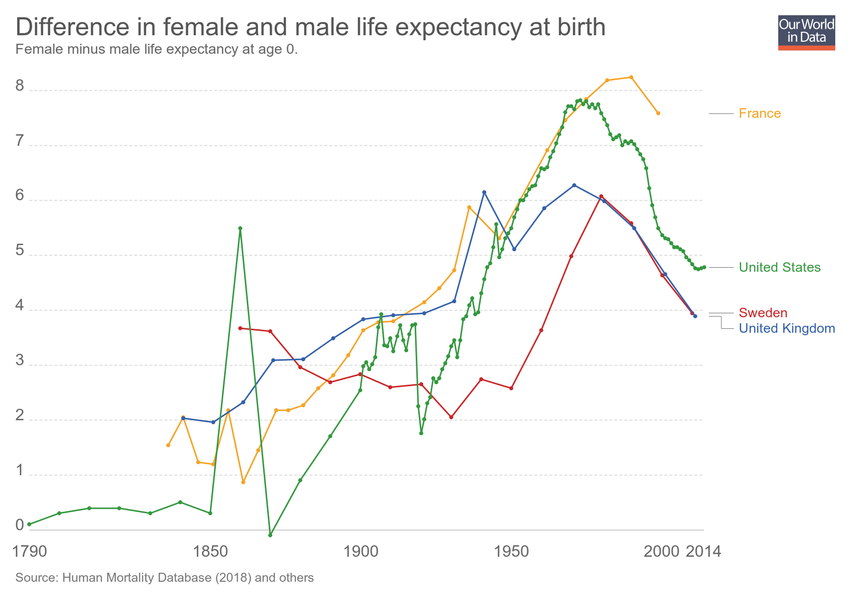
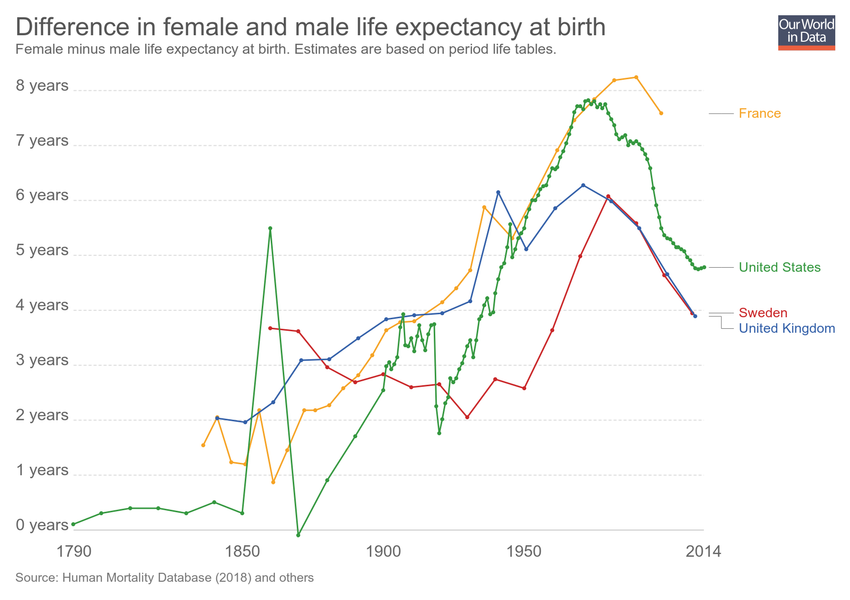
Updating chart difference-in-female-and-male-life-expectancy-at-birth

diff --git a/grapher/difference-in-female-and-male-life-expectancy-at-birth.html b/grapher/difference-in-female-and-male-life-expectancy-at-birth.html
@@ -1,4 +1,4 @@
-<!doctype html><html><head><meta name="viewport" content="width=device-width, initial-scale=1" /><title>Difference in female and male life expectancy at birth - Our World in Data</title><meta name="description" content="Female minus male life expectancy at age 0. " /><link rel="canonical" href="https://ourworldindata.org/grapher/difference-in-female-and-male-life-expectancy-at-birth" /><meta property="fb:app_id" content="1149943818390250" /><meta property="og:url" content="https://ourworldindata.org/grapher/difference-in-female-and-male-life-expectancy-at-birth" /><meta property="og:title" content="Difference in female and male life expectancy at birth" /><meta property="og:description" content="Female minus male life expectancy at age 0. " /><meta property="og:image" content="https://ourworldindata.org/grapher/exports/difference-in-female-and-male-life-expectancy-at-birth.png?v=1" /><meta property="og:image:width" content="850" /><meta property="og:image:height" content="600" /><meta property="og:site_name" content="Our World in Data" /><meta name="twitter:card" content="summary_large_image" /><meta name="twitter:site" content="@OurWorldInData" /><meta name="twitter:creator" content="@OurWorldInData" /><meta name="twitter:title" content="Difference in female and male life expectancy at birth" /><meta name="twitter:description" content="Female minus male life expectancy at age 0. " /><meta name="twitter:image" content="https://ourworldindata.org/grapher/exports/difference-in-female-and-male-life-expectancy-at-birth.png?v=1" /><style>
+<!doctype html><html><head><meta name="viewport" content="width=device-width, initial-scale=1" /><title>Difference in female and male life expectancy at birth - Our World in Data</title><meta name="description" content="Female minus male life expectancy at birth. Estimates are based on period life tables." /><link rel="canonical" href="https://ourworldindata.org/grapher/difference-in-female-and-male-life-expectancy-at-birth" /><meta property="fb:app_id" content="1149943818390250" /><meta property="og:url" content="https://ourworldindata.org/grapher/difference-in-female-and-male-life-expectancy-at-birth" /><meta property="og:title" content="Difference in female and male life expectancy at birth" /><meta property="og:description" content="Female minus male life expectancy at birth. Estimates are based on period life tables." /><meta property="og:image" content="https://ourworldindata.org/grapher/exports/difference-in-female-and-male-life-expectancy-at-birth.png?v=2" /><meta property="og:image:width" content="850" /><meta property="og:image:height" content="600" /><meta property="og:site_name" content="Our World in Data" /><meta name="twitter:card" content="summary_large_image" /><meta name="twitter:site" content="@OurWorldInData" /><meta name="twitter:creator" content="@OurWorldInData" /><meta name="twitter:title" content="Difference in female and male life expectancy at birth" /><meta name="twitter:description" content="Female minus male life expectancy at birth. Estimates are based on period life tables." /><meta name="twitter:image" content="https://ourworldindata.org/grapher/exports/difference-in-female-and-male-life-expectancy-at-birth.png?v=2" /><style>
         html, body {
             height: 100%;
             margin: 0;
@@ -20,8 +20,8 @@
         }
     </style><noscript><style>
                     figure { display: none !important; }
-                </style></noscript><link rel="stylesheet" href="https://ourworldindata.org/grapher/assets/commons.bundle.14327acaf5a347011987.css" /><link rel="preload" href="/grapher/data/variables/97767.json?v=1" as="fetch" crossorigin /></head><body class="singleChart"><figure data-grapher-src="/grapher/difference-in-female-and-male-life-expectancy-at-birth"></figure><noscript id="fallback"><img src="/grapher/exports/difference-in-female-and-male-life-expectancy-at-birth.svg" /><p>Interactive visualization requires JavaScript</p></noscript><script src="https://cdn.polyfill.io/v2/polyfill.min.js?features=es6,fetch"></script><script src="https://ourworldindata.org/grapher/assets/commons.bundle.14327acaf5a347011987.js"></script><script src="https://ourworldindata.org/grapher/assets/charts.bundle.14327acaf5a347011987.js"></script><script>
-        var jsonConfig = {"map":{"projection":"World","colorSchemeLabels":[],"colorSchemeValues":[],"customNumericColors":[],"customCategoryColors":{},"customCategoryLabels":{},"customHiddenCategories":{}},"tab":"chart","slug":"difference-in-female-and-male-life-expectancy-at-birth","type":"LineChart","title":"Difference in female and male life expectancy at birth","xAxis":{"scaleType":"linear"},"yAxis":{"min":0,"scaleType":"linear"},"version":1,"subtitle":"Female minus male life expectancy at age 0. ","hasMapTab":false,"stackMode":"absolute","dimensions":[{"display":{},"property":"y","variableId":97767}],"isAutoSlug":true,"hasChartTab":true,"isPublished":true,"selectedData":[{"index":0,"entityId":3},{"index":0,"entityId":10},{"index":0,"entityId":1},{"index":0,"entityId":13}],"addCountryMode":"add-country","id":2944};
+                </style></noscript><link rel="stylesheet" href="https://ourworldindata.org/grapher/assets/commons.bundle.14327acaf5a347011987.css" /><link rel="preload" href="/grapher/data/variables/97767.json?v=2" as="fetch" crossorigin /></head><body class="singleChart"><figure data-grapher-src="/grapher/difference-in-female-and-male-life-expectancy-at-birth"></figure><noscript id="fallback"><img src="/grapher/exports/difference-in-female-and-male-life-expectancy-at-birth.svg" /><p>Interactive visualization requires JavaScript</p></noscript><script src="https://cdn.polyfill.io/v2/polyfill.min.js?features=es6,fetch"></script><script src="https://ourworldindata.org/grapher/assets/commons.bundle.14327acaf5a347011987.js"></script><script src="https://ourworldindata.org/grapher/assets/charts.bundle.14327acaf5a347011987.js"></script><script>
+        var jsonConfig = {"id":2944,"map":{"projection":"World","colorSchemeLabels":[],"colorSchemeValues":[],"customNumericColors":[],"customCategoryColors":{},"customCategoryLabels":{},"customHiddenCategories":{}},"tab":"chart","slug":"difference-in-female-and-male-life-expectancy-at-birth","type":"LineChart","title":"Difference in female and male life expectancy at birth","xAxis":{"scaleType":"linear"},"yAxis":{"min":0,"scaleType":"linear"},"version":2,"subtitle":"Female minus male life expectancy at birth. Estimates are based on period life tables.","hasMapTab":false,"stackMode":"absolute","dimensions":[{"display":{"shortUnit":"years"},"property":"y","variableId":97767}],"hasChartTab":true,"isPublished":true,"selectedData":[{"index":0,"entityId":3},{"index":0,"entityId":10},{"index":0,"entityId":1},{"index":0,"entityId":13}],"addCountryMode":"add-country"};
         var figure = document.getElementsByTagName("figure")[0];
         try {
             window.App = {};
